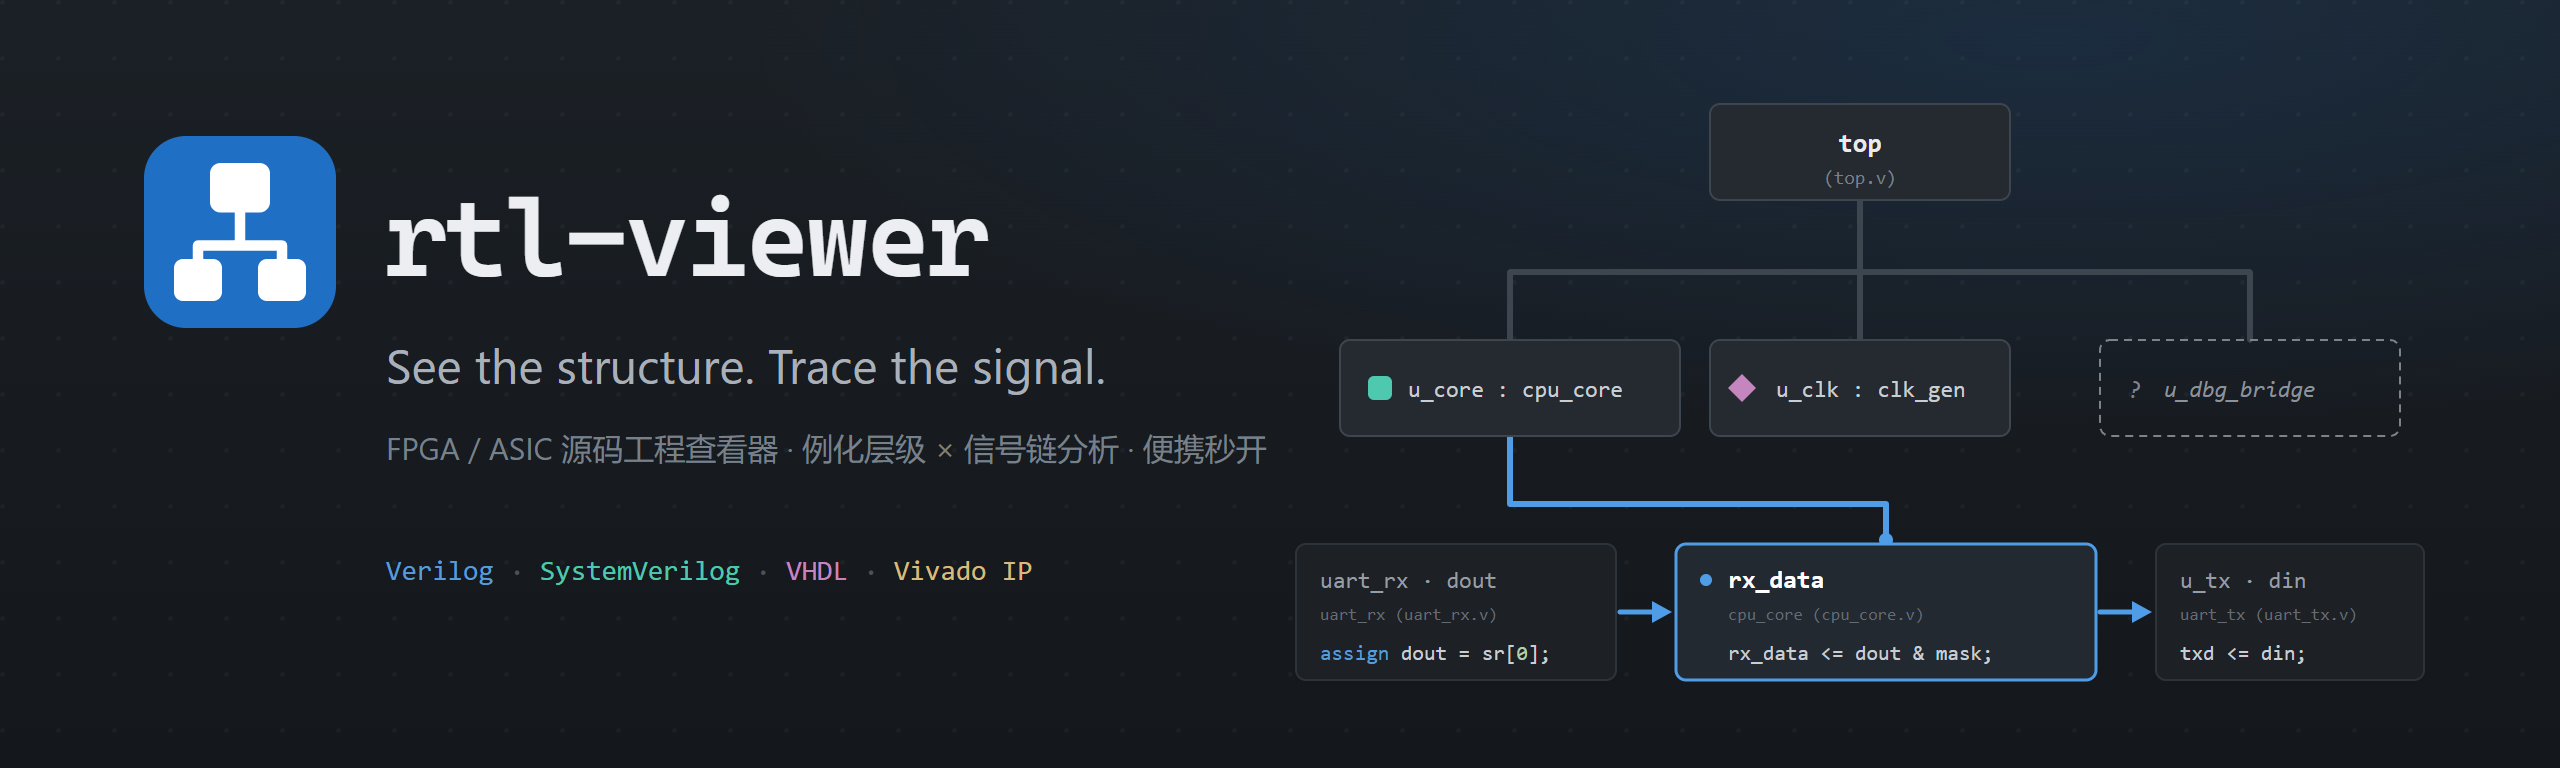
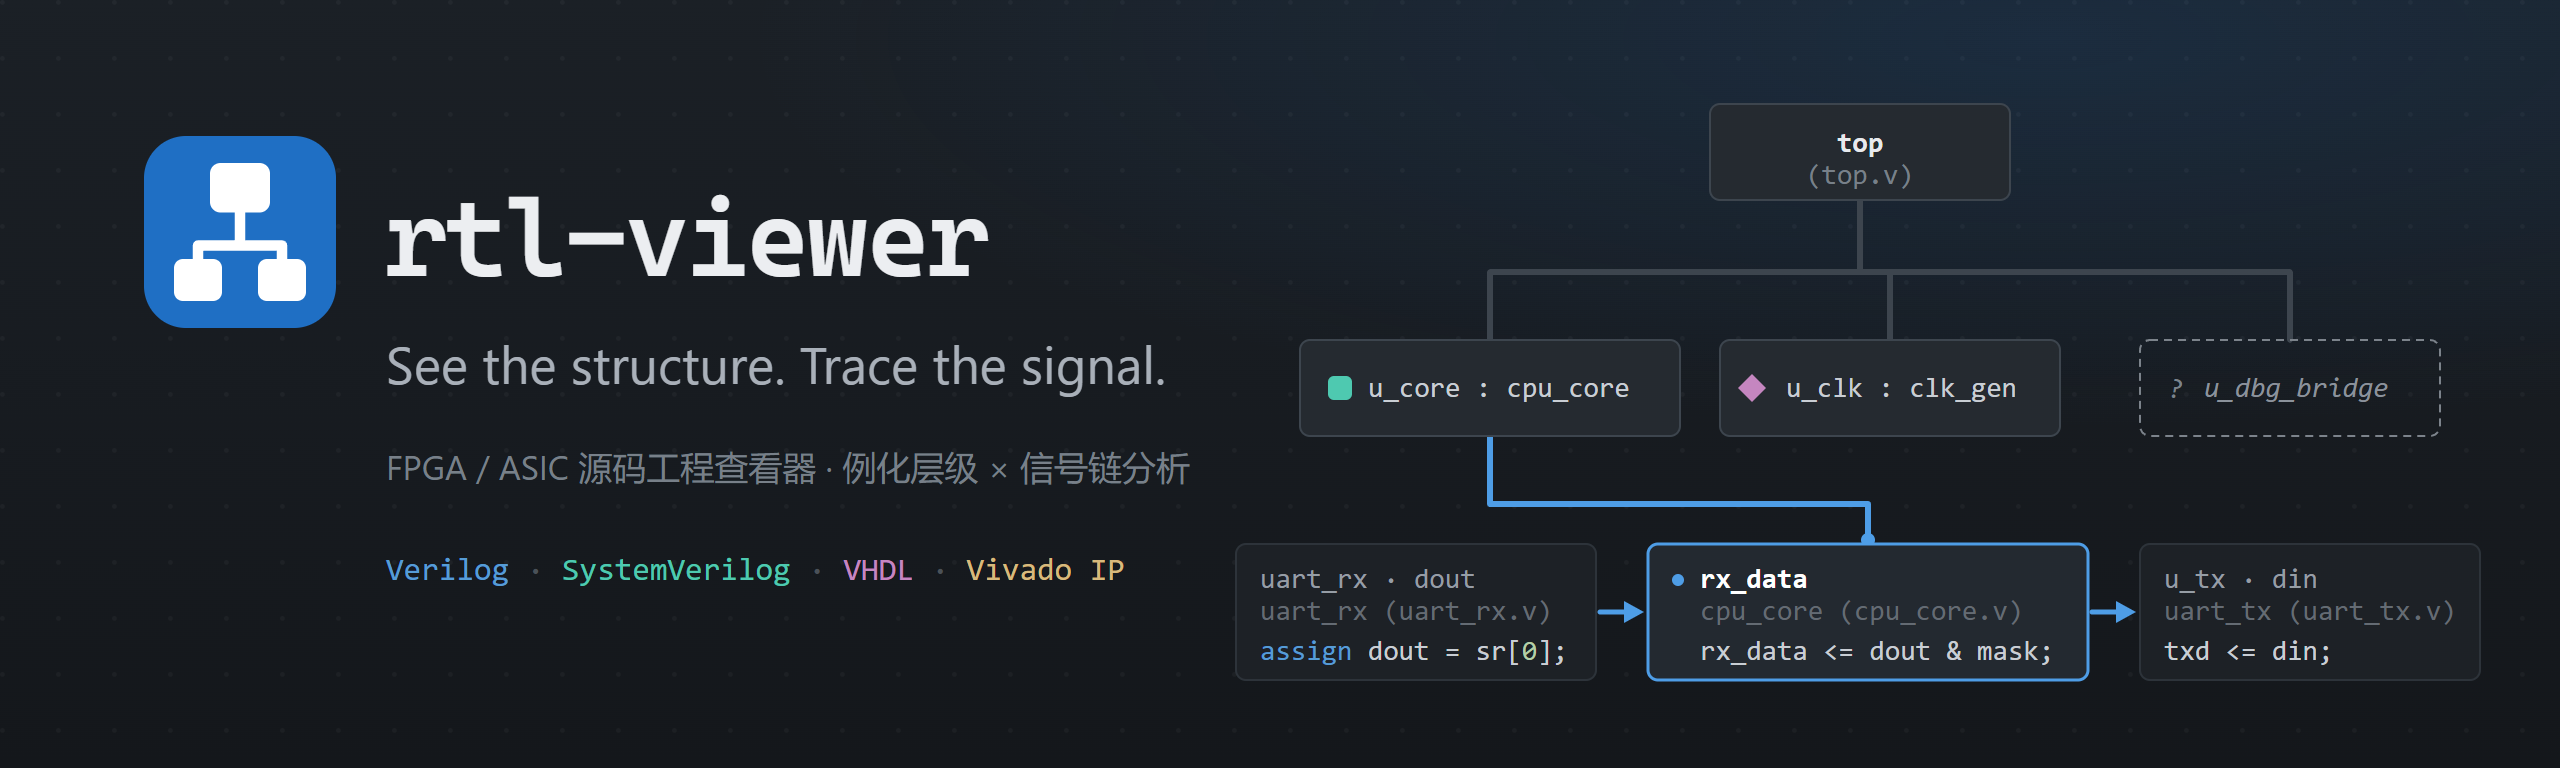
docs: 增大首页图片字号并保留原头图风格，改善缩放阅读

diff --git a/README.md b/README.md
@@ -17,9 +17,9 @@
 
 ## 界面预览
 
-![RTL Viewer 中的混合 HDL 工程层级、VHDL 源码与输出信号链](docs/assets/workspace.jpg)
+![RTL Viewer 中的混合 HDL 工程层级、VHDL 源码与输出信号链](docs/assets/workspace.png)
 
-截图使用仓库内的 [独立样例](tests/samples/basic)：Verilog 顶层例化 VHDL 寄存器与 IP 黑盒，信号链展示输出端口的驱动赋值和顶层连接。
+截图使用仓库内的 [独立样例](tests/samples/basic)：Verilog 顶层例化 VHDL 寄存器与 IP 黑盒，信号链展示输出端口的驱动赋值和顶层连接。为便于阅读，截图单独放大了界面与代码字号。
 
 ## 下载与快速开始
 
